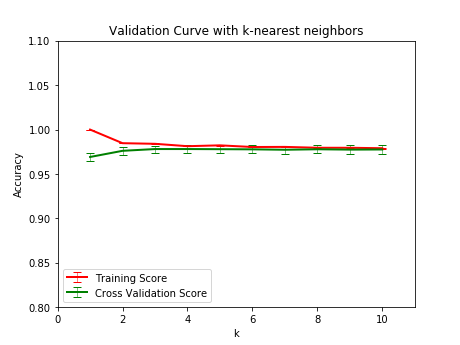
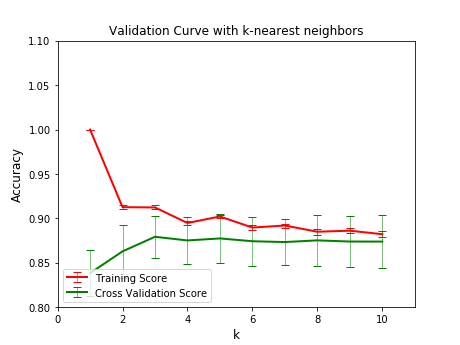
implemented linear SVM

diff --git a/analyze_data.py b/analyze_data.py
@@ -1,10 +1,16 @@
 import os
 import pandas as pd
-from sklearn.model_selection import train_test_split
-from sklearn.preprocessing import StandardScaler
-from sklearn.model_selection import validation_curve
-from sklearn.neighbors import KNeighborsClassifier
 import numpy as np
+
+from sklearn.preprocessing import StandardScaler
+
+from sklearn.model_selection import train_test_split
+from sklearn.model_selection import validation_curve
+from sklearn.model_selection import learning_curve
+
+from sklearn.neighbors import KNeighborsClassifier
+from sklearn.svm import SVC
+
 import matplotlib.pyplot as plt
 
 def preprocessing_data(filename):
@@ -17,10 +23,11 @@ def tune_kNN(X, y):
 
     print '-------------------------hyperparameter tuning for k-nearest neighbors-------------------------'
 
+
+    # using validation_curve to find the optimal k value
     k_range = range(1,11)
     train_scores, cv_scores = validation_curve(KNeighborsClassifier(), X, y, param_name='n_neighbors',
-                                               param_range=k_range,cv=10, scoring='accuracy')
-
+                                               param_range=k_range,cv=10, scoring='f1')
     train_scores_mean = np.mean(train_scores, axis=1)
     train_scores_std = np.std(train_scores, axis=1)
     cv_scores_mean = np.mean(cv_scores, axis=1)
@@ -28,28 +35,70 @@ def tune_kNN(X, y):
 
     optimal_k = 0
     highest_score = 0
-
-    for i in k_range:
-        print 'k=%d, training_score: %f, cv_score: %f'%(i, train_scores_mean[i-1], cv_scores_mean[i-1])
-        if cv_scores_mean[i-1] > highest_score:
-            highest_score = cv_scores_mean[i-1]
-            optimal_k = i
-
+    for i in range(len(k_range)):
+        print 'k=%d, training_score: %f, cv_score: %f'%(k_range[i], train_scores_mean[i], cv_scores_mean[i])
+        if cv_scores_mean[i] > highest_score:
+            highest_score = cv_scores_mean[i]
+            optimal_k = k_range[i]
     print 'model selected: %d-nearest neighbors' % (optimal_k)
+    print train_scores_mean, cv_scores_mean
 
-    #print train_scores_mean, cv_scores_mean
+    plot_curve(k_range, train_scores_mean, train_scores_std, cv_scores_mean,cv_scores_std,
+               title='Validation Curve with k-nearest neighbors', x_label='k',
+               x_lim = (0, 11), y_lim=(0.8, 1.1) )
 
-    plot_validation_curve(k_range, train_scores_mean, train_scores_std, cv_scores_mean,cv_scores_std,
-                          title='Validation Curve with k-nearest neighbors', x_label='k', x_lim = (0, 11),
-                          y_lim=(0.8, 1.1) )
+    # generates learning curve
+
+    train_sizes = np.linspace(.1, 1.0,10)
+    #print train_sizes.shape
+
+    train_sizes, train_scores_lc, cv_scores_lc = learning_curve(
+        KNeighborsClassifier(optimal_k), X, y, cv=10, n_jobs=1, scoring = 'f1', train_sizes=train_sizes)
+
+    train_scores_mean_lc = np.mean(train_scores_lc, axis=1)
+    train_scores_std_lc = np.std(train_scores_lc, axis=1)
+    cv_scores_mean_lc = np.mean(cv_scores_lc, axis=1)
+    cv_scores_std_lc = np.std(cv_scores_lc, axis=1)
+
+    for i in range(train_sizes.shape[0]):
+        print 'sample_size=%d, training_score: %f, cv_score: %f' % (train_sizes[i], train_scores_mean_lc[i], cv_scores_mean_lc[i])
+
+    #print train_scores_mean_lc, cv_scores_mean_lc
+
+    plot_curve(train_sizes, train_scores_mean_lc, train_scores_std_lc, cv_scores_mean_lc, cv_scores_std_lc,
+               title='Learning Curve with k-nearest neighbors (k=%d)'%(optimal_k), x_label='number of samples',
+               x_lim=(0, 12000), y_lim=(0.8, 1.1))
+
+def tune_SVM_1(X, y):
+    c_range = [0.001, 1000]
+    train_scores, cv_scores = validation_curve(SVC(kernel='linear'), X, y, param_name='C',
+                                                 param_range=c_range,cv=10, scoring='f1')
+    train_scores_mean = np.mean(train_scores, axis=1)
+    train_scores_std = np.std(train_scores, axis=1)
+    cv_scores_mean = np.mean(cv_scores, axis=1)
+    cv_scores_std = np.std(cv_scores, axis=1)
+
+    optimal_c = 0.0
+    highest_score = 0
+    for i in range(2):
+        print 'c=%f, training_score: %f, cv_score: %f' % (c_range[i], train_scores_mean[i], cv_scores_mean[i])
+        if cv_scores_mean[i] > highest_score:
+            highest_score = cv_scores_mean[i]
+            optimal_c = c_range[i]
+    print 'c: %f' % (optimal_c)
+    # print train_scores_mean, cv_scores_mean
+
+    plot_curve(c_range, train_scores_mean, train_scores_std, cv_scores_mean, cv_scores_std,
+               title='Validation Curve with k-nearest neighbors', x_label='value of C',
+               x_lim=(0, 11), y_lim=(0.8, 1.1))
 
 
-def plot_validation_curve(x_data, train_score_mean, train_score_std, cv_score_mean, cv_score_std, **kwargs):
+def plot_curve(x_data, train_score_mean, train_score_std, cv_score_mean, cv_score_std, **kwargs):
 
     plt.title(kwargs['title'])
-    plt.xlabel(kwargs['x_label'])
+    plt.xlabel(kwargs['x_label'],fontsize=12)
     plt.xlim(kwargs['x_lim'])
-    plt.ylabel('Accuracy')
+    plt.ylabel('F score',fontsize=12)
     plt.ylim(kwargs['y_lim'])
 
     plt.errorbar(x_data, train_score_mean, yerr=train_score_std, label='Training Score',
@@ -88,4 +137,5 @@ if __name__ == '__main__':
     """
 
     tune_kNN(X_train, y_train)
+    #tune_SVM_1(X_train, y_train)
 
